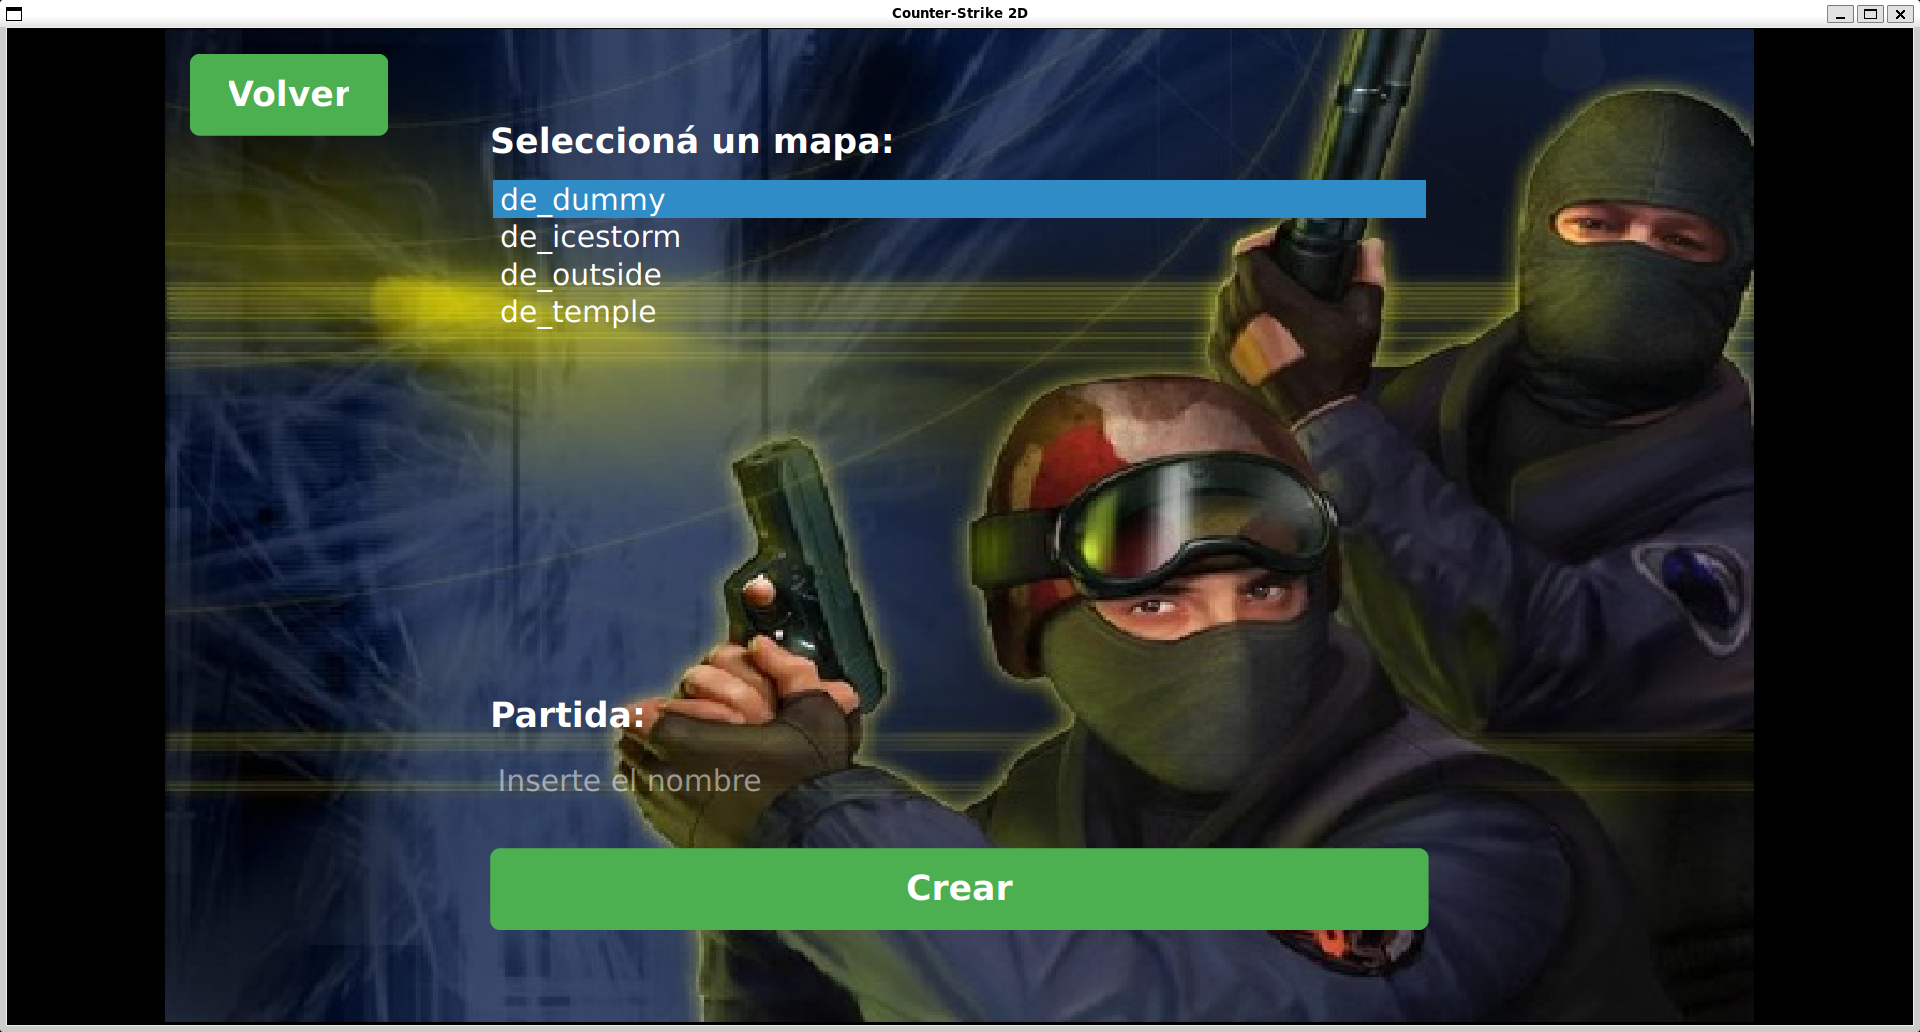
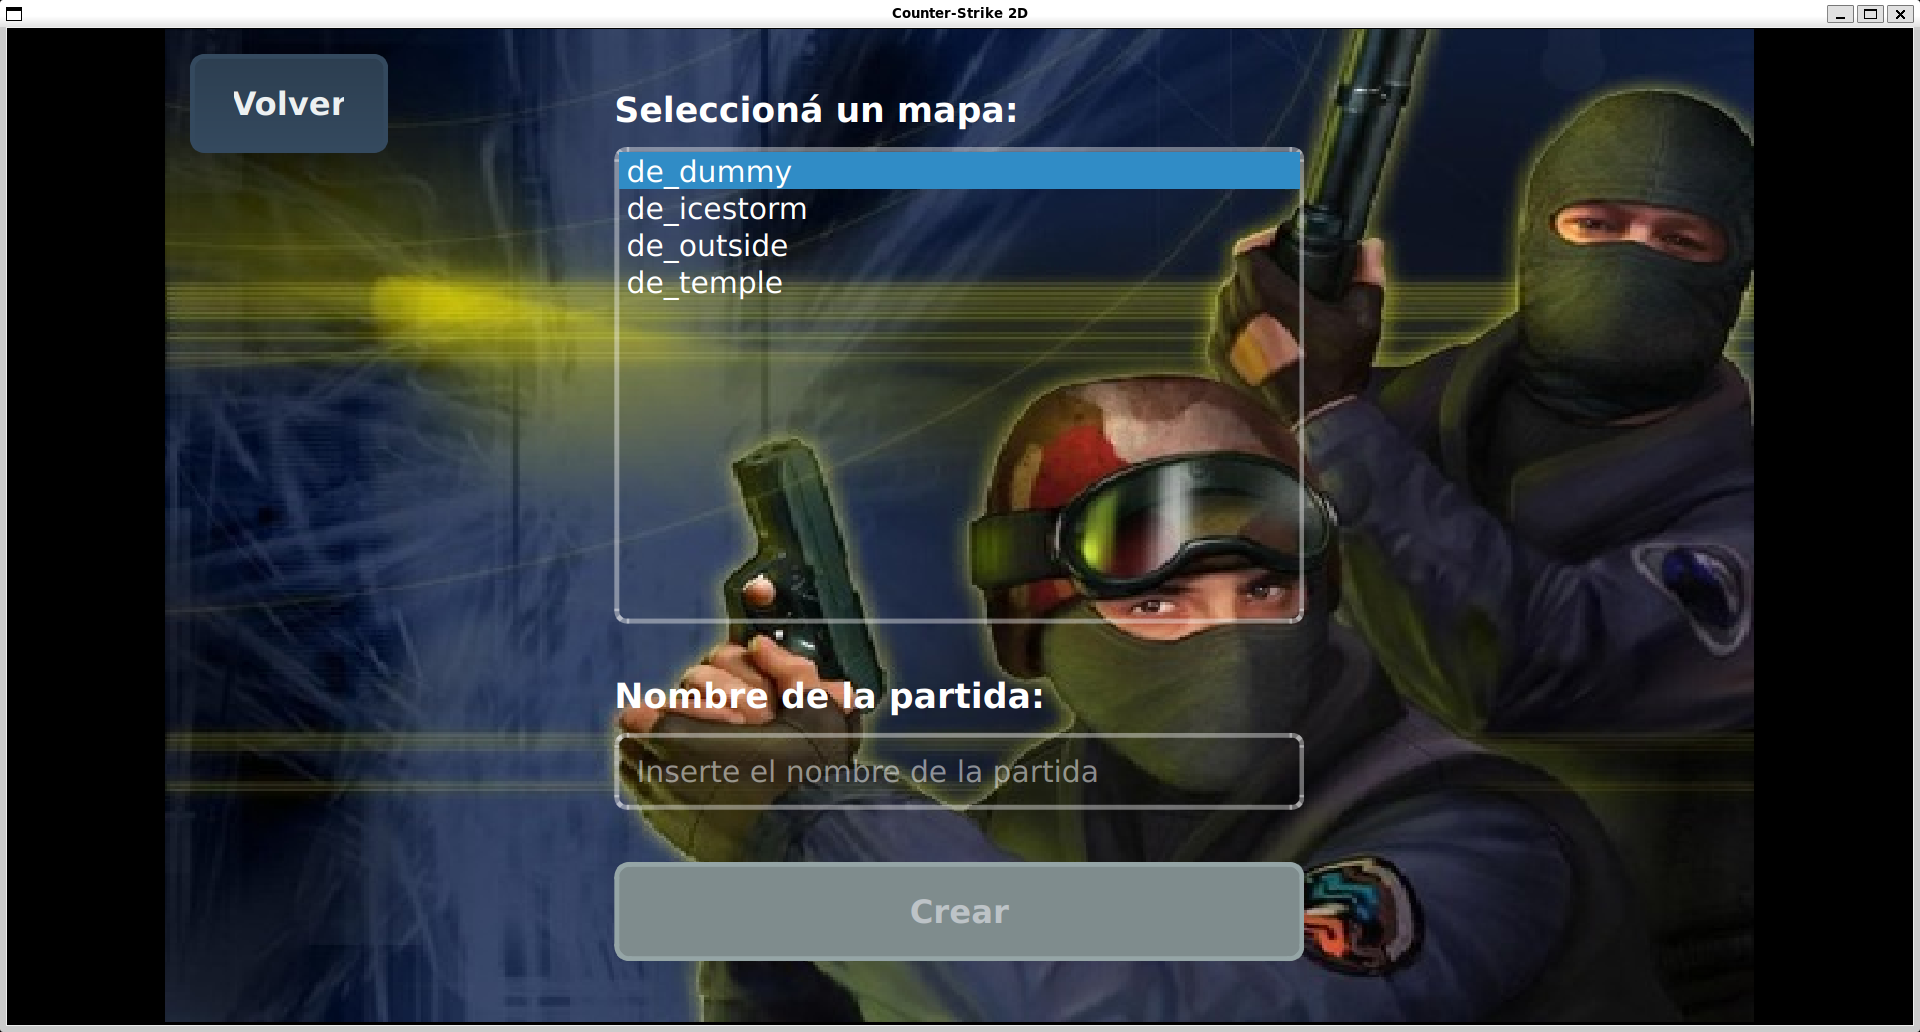
Cambiamos la interfaz del lobby y actualizamos las fotos
Co-authored by: milamantilla00 <lmantilla@fi.uba.ar>

diff --git a/client/lobby/scenes/welcome_scene.cpp b/client/lobby/scenes/welcome_scene.cpp
@@ -4,12 +4,12 @@
 #include <QGraphicsProxyWidget>
 #include <QGraphicsView>
 #include <QLabel>
-#include <QMessageBox>
 #include <QPixmap>
 #include <QVBoxLayout>
 
 #include "../widgets/styled_button.h"
 #include "../widgets/styled_line_edit.h"
+#include "../widgets/error_dialog.h"
 
 WelcomeScene::WelcomeScene(QObject* parent): BackgroundScene(parent) { setUpWelcome(); }
 
@@ -20,90 +20,71 @@ void WelcomeScene::setUpWelcome() {
     logoItem->setPos(120, 70);
 
     QLabel* textLabel = new QLabel("¡Bienvenido!");
-    textLabel->setStyleSheet("QLabel { color: white; font-size: 16px; font-weight: bold; }");
+    textLabel->setStyleSheet(R"(
+        QLabel { 
+            color: #ecf0f1; 
+            font-size: 16px; 
+            font-weight: bold; 
+            margin-bottom: 10px;
+        }
+    )");
+    textLabel->setAlignment(Qt::AlignLeft);
 
-    // nameInput = new StyledLineEdit();
-    // nameInput->setPlaceholderText("Ingrese su username");
+    nameInput = new StyledLineEdit();
+    nameInput->setPlaceholderText("Ingrese su username");
+    nameInput->setFixedSize(200, 30);
 
-    // ipInput = new StyledLineEdit();
-    // ipInput->setPlaceholderText("IP del servidor");
+    ipInput = new StyledLineEdit();
+    ipInput->setPlaceholderText("IP del servidor");
+    ipInput->setFixedSize(200, 30);
 
-    // portInput = new StyledLineEdit();
-    // portInput->setPlaceholderText("Puerto");
+    portInput = new StyledLineEdit();
+    portInput->setPlaceholderText("Puerto");
+    portInput->setFixedSize(200, 30);
 
     StyledButton* startButton = new StyledButton("Ingresar");
+    startButton->setFixedSize(200, 35);
 
     QWidget* container = new QWidget();
     QVBoxLayout* vLayout = new QVBoxLayout();
     vLayout->addWidget(textLabel);
-    // vLayout->addWidget(nameInput);
-    // vLayout->addWidget(ipInput);
-    // vLayout->addWidget(portInput);
+    vLayout->addWidget(nameInput);
+    vLayout->addWidget(ipInput);
+    vLayout->addWidget(portInput);
     vLayout->addWidget(startButton);
+    vLayout->setAlignment(Qt::AlignLeft);
+    vLayout->setSpacing(10);
+    vLayout->setContentsMargins(10, 10, 10, 10);
     container->setLayout(vLayout);
+    container->setFixedWidth(220);
     container->setStyleSheet("background: transparent;");
 
     QGraphicsProxyWidget* proxy = addWidget(container);
-    proxy->setPos(15, 200);
+    proxy->setPos(10, 180);
 
-    auto showError = [this](const QString& message) {
-        QMessageBox msgBox;
-        msgBox.setWindowTitle("Error");
-        msgBox.setText(message);
-        msgBox.setIcon(QMessageBox::Warning);
-        msgBox.setStyleSheet(R"(
-            QMessageBox {
-                background-color: white;
-                border: 1px solid #cccccc;
-                border-radius: 6px;
-            }
-            QMessageBox QLabel {
-                color: black;
-                font-size: 12px;
-            }
-            QPushButton {
-                background-color: #f0f0f0;
-                border: 1px solid #cccccc;
-                border-radius: 4px;
-                padding: 5px 15px;
-            }
-            QPushButton:hover {
-                background-color: #e0e0e0;
-            }
-        )");
+    connect(startButton, &QPushButton::clicked, this, [this]() {
+        QString username = nameInput->text().trimmed();
+        QString ip = ipInput->text().trimmed();
+        QString port = portInput->text().trimmed();
 
-        if (!views().isEmpty()) {
-            QGraphicsView* view = views().first();
-            QPoint center = view->mapToGlobal(view->viewport()->rect().center());
-            msgBox.move(center.x() - msgBox.width() / 2, center.y() - msgBox.height() / 2);
+        if (username.isEmpty() || ip.isEmpty() || port.isEmpty()) {
+            ErrorDialog::showError("Por favor, complete todos los campos.", this);
+            return;
         }
 
-        msgBox.exec();
-    };
+        if (username.length() > 10) {
+            ErrorDialog::showError("El nombre de usuario no puede tener más de 10 caracteres.", this);
+            return;
+        }
 
-    connect(startButton, &QPushButton::clicked, this, [this, showError]() {
-        // QString username = nameInput->text().trimmed();
-        // QString ip = ipInput->text().trimmed();
-        // QString port = portInput->text().trimmed();
+        bool ok;
+        int portNumber = port.toInt(&ok);
+        if (!ok || portNumber <= 0 || portNumber > 65535) {
+            ErrorDialog::showError("El puerto debe ser un número válido entre 1 y 65535.", this);
+            return;
+        }
 
-        // if (username.isEmpty() || ip.isEmpty() || port.isEmpty()) {
-        //     showError("Por favor, complete todos los campos.");
-        //     return;
-        // }
-
-        // if (username.length() > 10) {
-        //     showError("El nombre de usuario no puede tener más de 10 caracteres.");
-        //     return;
-        // }
-
-        // bool ok;
-        // int portNumber = port.toInt(&ok);
-        // if (!ok || portNumber <= 0 || portNumber > 65535) {
-        //     showError("El puerto debe ser un número válido entre 1 y 65535.");
-        //     return;
-        // }
-
-        emit startClicked(/* username, ip, port */);
+        emit startClicked(username, ip, port);
     });
 
     connect(this, &QGraphicsScene::sceneRectChanged, this,
@@ -111,6 +92,6 @@ void WelcomeScene::setUpWelcome() {
                 qreal scale = rect.width() / 640.0;
                 logoItem->setPos(120 * scale, 70 * scale);
 
-                proxy->setPos(15 * scale, 200 * scale);
+                proxy->setPos(10 * scale, 180 * scale);
             });
 }

diff --git a/client/lobby/widgets/error_dialog.h b/client/lobby/widgets/error_dialog.h
@@ -1,0 +1,45 @@
+#ifndef ERROR_DIALOG_H
+#define ERROR_DIALOG_H
+
+#include <QMessageBox>
+#include <QGraphicsView>
+
+class ErrorDialog {
+public:
+    static void showError(const QString& message, QGraphicsScene* scene = nullptr) {
+        QMessageBox msgBox;
+        msgBox.setWindowTitle("Error");
+        msgBox.setText(message);
+        msgBox.setIcon(QMessageBox::Warning);
+        msgBox.setStyleSheet(R"(
+            QMessageBox {
+                background-color: white;
+                border: 1px solid #cccccc;
+                border-radius: 6px;
+            }
+            QMessageBox QLabel {
+                color: black;
+                font-size: 12px;
+            }
+            QPushButton {
+                background-color: #f0f0f0;
+                border: 1px solid #cccccc;
+                border-radius: 4px;
+                padding: 5px 15px;
+            }
+            QPushButton:hover {
+                background-color: #e0e0e0;
+            }
+        )");
+
+        if (scene && !scene->views().isEmpty()) {
+            QGraphicsView* view = scene->views().first();
+            QPoint center = view->mapToGlobal(view->viewport()->rect().center());
+            msgBox.move(center.x() - msgBox.width() / 2, center.y() - msgBox.height() / 2);
+        }
+
+        msgBox.exec();
+    }
+};
+
+#endif  // ERROR_DIALOG_H 

diff --git a/client/lobby/widgets/styled_line_edit.h b/client/lobby/widgets/styled_line_edit.h
@@ -10,12 +10,12 @@ public:
         setStyleSheet(R"(
             QLineEdit {
                 background: qlineargradient(x1:0, y1:0, x2:0, y2:1,
-                    stop:0 #34495e, stop:1 #2c3e50);
+                    stop:0 rgba(52, 73, 94, 0.8), stop:1 rgba(44, 62, 80, 0.8));
                 color: #ecf0f1;
-                border: 2px solid #34495e;
+                border: 2px solid rgba(255, 255, 255, 0.3);
                 border-radius: 6px;
-                padding: 8px 12px;
-                font-size: 14px;
+                padding: 6px 10px;
+                font-size: 12px;
                 font-weight: bold;
                 selection-background-color: #3498db;
                 selection-color: #ecf0f1;
@@ -23,7 +23,7 @@ public:
             QLineEdit:focus {
                 border: 2px solid #3498db;
                 background: qlineargradient(x1:0, y1:0, x2:0, y2:1,
-                    stop:0 #2c3e50, stop:1 #34495e);
+                    stop:0 rgba(52, 73, 94, 0.9), stop:1 rgba(44, 62, 80, 0.9));
             }
             QLineEdit:hover {
                 border: 2px solid #5dade2;

diff --git a/client/lobby/scenes/game_creation_scene.cpp b/client/lobby/scenes/game_creation_scene.cpp
@@ -8,9 +8,9 @@
 #include <QLabel>
 #include <QVBoxLayout>
 #include <QWidget>
-#include <QMessageBox>
 
 #include "../widgets/styled_button.h"
+#include "../widgets/error_dialog.h"
 
 GameCreationScene::GameCreationScene(QObject* parent):
         BackgroundScene(parent), mapListWidget(new QListWidget), gameNameInput(new QLineEdit) {
@@ -109,13 +109,13 @@ void GameCreationScene::setUpGameCreation() {
         QListWidgetItem* selectedItem = mapListWidget->currentItem();
         
         if (!isValidGameName(gameName)) {
-            QMessageBox::warning(nullptr, "Error", "Por favor, ingresa un nombre válido para la partida.");
+            ErrorDialog::showError("Por favor, ingresa un nombre válido para la partida.", this);
             gameNameInput->setFocus();
             return;
         }
         
         if (!selectedItem) {
-            QMessageBox::warning(nullptr, "Error", "Por favor, selecciona un mapa.");
+            ErrorDialog::showError("Por favor, selecciona un mapa.", this);
             return;
         }
         

diff --git a/client/lobby/main_window.cpp b/client/lobby/main_window.cpp
@@ -80,15 +80,15 @@ void MainWindow::showWelcomeScene() {
     ui->mainView->setScene(welcomeScene);
     connect(
             welcomeScene, &WelcomeScene::startClicked, this,
-            // [this](QString username, QString ip, QString port) {
-            [this]() {
-                //host = ip.toStdString();
-                //port = port.toStdString();
-                //username = username.toStdString();
+            [this](QString username, QString ip, QString port) {
+            // [this]() {
+                this->host = ip.toStdString();
+                this->port = port.toStdString();
+                this->username = username.toStdString();
 
-                host = "localhost";
-                port = "9000";
-                username = "user";
+                // host = "localhost";
+                // port = "9000";
+                // username = "user";
                 connectToServer();
 
                 showLobbyScene();

diff --git a/client/lobby/scenes/welcome_scene.h b/client/lobby/scenes/welcome_scene.h
@@ -13,7 +13,7 @@ public:
     explicit WelcomeScene(QObject* parent = nullptr);
 
 signals:
-    void startClicked(/* const QString& username, const QString& ip, const QString& port */);
+    void startClicked(const QString& username, const QString& ip, const QString& port);
 
 private:
     void setUpWelcome();
